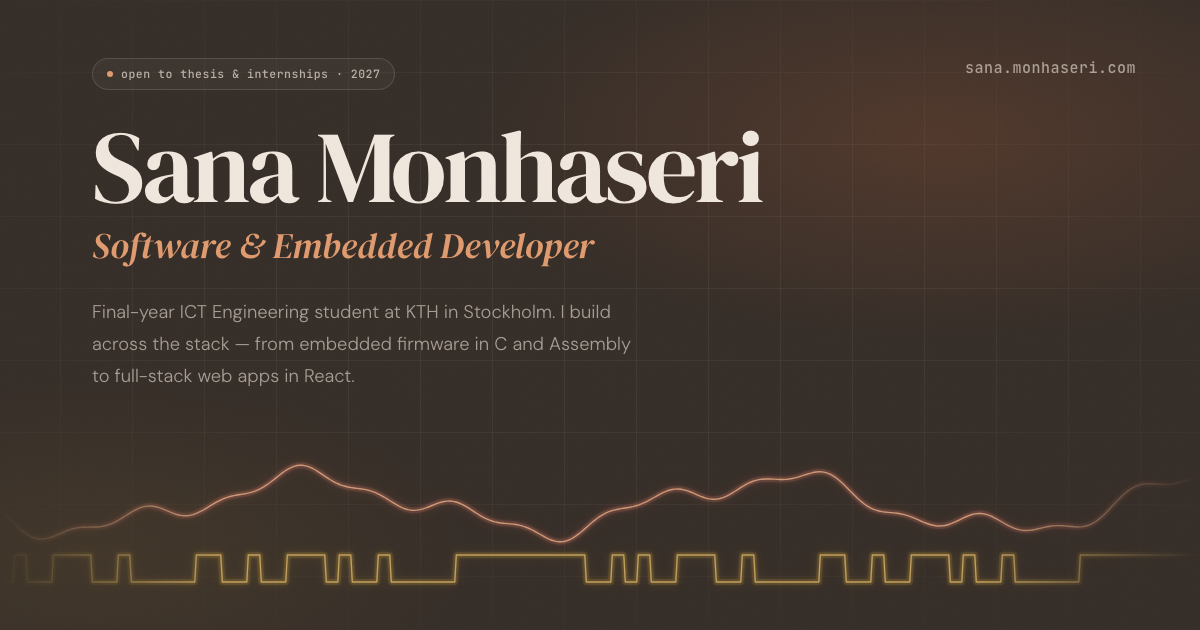
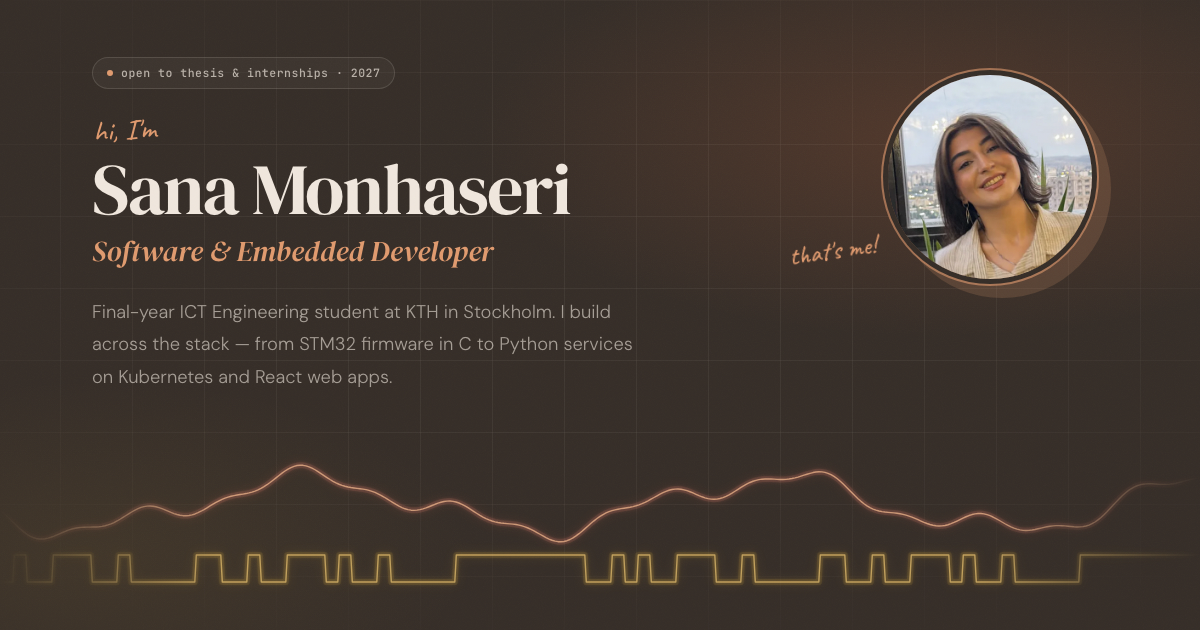
Add CAN Telemetry API and pi-assumptions, update PlantPath, add photo

diff --git a/portfolio/src/Projects/Projects.js b/portfolio/src/Projects/Projects.js
@@ -56,11 +56,23 @@ const GITHUB = 'https://github.com/Sana8200';
 
 const PROJECTS = [
   {
+    title: 'CAN Telemetry API',
+    images: ['/images/can-telemetry-cicd.webp', '/images/can-telemetry-architecture.webp'],
+    alts: [
+      'CI/CD diagram: a push to main is linted and tested, smoke-tested in Docker and on Kubernetes, then published to ghcr.io',
+      'Architecture diagram: a client posts CAN frames over HTTPS to a FastAPI service in a locked-down Kubernetes pod, which decodes them and keeps the latest value of each signal in memory',
+    ],
+    imgClass: 'proj__img--contain',
+    desc: 'A FastAPI service that decodes CAN bus frames into physical signals like rpm, temperature and battery voltage, and serves the latest values over HTTP/2 with TLS from a non-root container. It runs on Kubernetes (kind), and a GitHub Actions pipeline lints, tests and smoke-tests every push before publishing the image to ghcr.io.',
+    tags: ['Python', 'FastAPI', 'Docker', 'Kubernetes', 'GitHub Actions'],
+    links: [{ label: 'Code', url: `${GITHUB}/can-telemetry-api` }],
+  },
+  {
     title: 'HouseBite',
     images: ['/images/HOUSE_BITE.webp'],
     alts: ['HouseBite dashboard with household overview, pantry, receipt scanning, and recipes'],
     imgClass: 'proj__img--screenshot',
-    desc: 'A PWA that turns a household into a shared smart pantry — grocery and expiry tracking, recipe suggestions, OCR receipt scanning, and a shared budget. Built in a team of 7 using Scrum.',
+    desc: 'A PWA that turns a household into a shared smart pantry — grocery and expiry tracking, recipe suggestions, receipt scanning with an OpenAI vision model, and a shared budget. Built in a team of 7 using Scrum.',
     role: 'Household management, Google sign-in, the app-wide notification and error system, and Supabase schema work.',
     tags: ['React', 'TypeScript', 'Supabase', 'PostgreSQL'],
     links: [
@@ -80,16 +92,29 @@ const PROJECTS = [
     links: [{ label: 'Code', url: `${GITHUB}/FingerOscilloscope` }],
   },
   {
-    title: 'LeafKeeper',
-    images: ['/images/leafkeeper-landing.webp', '/images/leafkeeper-app.webp'],
+    title: 'pi-assumptions',
+    images: ['/images/pi-assumptions.webp'],
+    alts: ['Terminal running the pi coding agent: while writing rpm.py, the agent flags three assumptions about byte order, scaling, and signedness, each with a confidence level'],
+    imgClass: 'proj__img--contain',
+    desc: 'An extension for the pi coding agent. When a task leaves a detail open, like byte order or units, the agent picks a sensible default, flags it and keeps working. Typing /assumptions lists the flags, and picking a wrong one sends the agent back to fix the code that depended on it.',
+    tags: ['TypeScript', 'AI agents'],
+    links: [{ label: 'Code', url: `${GITHUB}/pi-assumptions` }],
+  },
+  {
+    title: 'PlantPath',
+    images: ['/images/plantpath-start.webp', '/images/plantpath-collections.webp', '/images/plantpath-search.webp'],
     alts: [
-      'LeafKeeper landing page with sign-in options',
-      'LeafKeeper discover page with plant search and trending plants',
+      'PlantPath start page with log in and create account options',
+      'PlantPath collections page with a watering status badge for each plant',
+      'PlantPath search page with trending plants',
     ],
-    desc: 'A digital gardening companion for plant collections and care tracking. Built in a team of 3.',
-    role: 'Designed the UI/UX and built the React front end, integrated with a REST API backend.',
-    tags: ['React', 'JavaScript', 'REST APIs'],
-    links: [{ label: 'Live demo', url: 'https://group-11-57e70.web.app/', demo: true }],
+    desc: 'A web app for discovering houseplants, saving them into collections and tracking when each one needs water. Built in a team of 3. Search no longer returns results because our plant API subscription has ended, so the screenshots show it working.',
+    role: 'Designed the UI/UX and built the React front end, using MobX, Firebase Auth/Firestore and the House Plants API.',
+    tags: ['React', 'JavaScript', 'MobX', 'Firebase'],
+    links: [
+      { label: 'Code', url: `${GITHUB}/PlantPath` },
+      { label: 'Live demo', url: 'https://plantpath-bac3f.web.app/', demo: true },
+    ],
   },
   {
     title: 'Soundgood Database',
@@ -104,6 +129,11 @@ const PROJECTS = [
 
 // Smaller work, collapsed by default to keep the page short
 const MORE = [
+  {
+    name: 'Snake Game',
+    detail: 'Bare-metal C on the DE10-Lite’s RISC-V soft-core: VGA graphics, the score on the 7-segment display, and controls on the board’s buttons and switches.',
+    url: `${GITHUB}/Snake_game`,
+  },
   {
     name: 'Digital Design & Embedded Electronics',
     detail: 'Combinational and sequential logic circuits, plus hardware interfaces for sensors and displays. Now a lab assistant for the course.',

diff --git a/portfolio/public/index.html b/portfolio/public/index.html
@@ -13,21 +13,21 @@
     <!-- Fonts -->
     <link rel="preconnect" href="https://fonts.googleapis.com" />
     <link rel="preconnect" href="https://fonts.gstatic.com" crossorigin />
-    <link rel="stylesheet" href="https://fonts.googleapis.com/css2?family=DM+Serif+Display:ital@0;1&family=DM+Sans:ital,opsz,wght@0,9..40,300;0,9..40,400;0,9..40,500;0,9..40,600;1,9..40,400&family=JetBrains+Mono:wght@400;500&display=swap" />
+    <link rel="stylesheet" href="https://fonts.googleapis.com/css2?family=Caveat:wght@500;600&family=DM+Serif+Display:ital@0;1&family=DM+Sans:ital,opsz,wght@0,9..40,300;0,9..40,400;0,9..40,500;0,9..40,600;1,9..40,400&family=JetBrains+Mono:wght@400;500&display=swap" />
 
     <!-- Primary Meta Tags -->
     <title>Sana Monhaseri — Software & Embedded Developer</title>
     <meta name="title" content="Sana Monhaseri — Software & Embedded Developer" />
-    <meta name="description" content="Final-year ICT Engineering student at KTH, Stockholm. Embedded firmware (STM32, C, KTH Formula Student) and full-stack web apps. Open to thesis projects and internships in 2027." />
+    <meta name="description" content="Final-year ICT Engineering student at KTH, Stockholm. From STM32 firmware in C (KTH Formula Student) to Python services on Kubernetes and React web apps. Open to thesis projects and internships in 2027." />
     <meta name="author" content="Sana Monhaseri" />
-    <meta name="keywords" content="Sana Monhaseri, software developer, embedded systems, STM32, Formula Student, full-stack, KTH, thesis, internship, ICT engineering, React, portfolio, Stockholm" />
+    <meta name="keywords" content="Sana Monhaseri, software developer, embedded systems, STM32, Formula Student, full-stack, Python, FastAPI, Kubernetes, KTH, thesis, internship, ICT engineering, React, portfolio, Stockholm" />
 
     <!-- Open Graph / Facebook / LinkedIn -->
     <meta property="og:type" content="website" />
     <meta property="og:url" content="https://sana.monhaseri.com/" />
     <meta property="og:title" content="Sana Monhaseri — Software & Embedded Developer" />
-    <meta property="og:description" content="Final-year ICT Engineering student at KTH. Embedded firmware and full-stack web apps. Open to thesis projects and internships in 2027." />
-    <meta property="og:image" content="https://sana.monhaseri.com/og-image.png?v=2" />
+    <meta property="og:description" content="Final-year ICT Engineering student at KTH. From STM32 firmware in C to Python services on Kubernetes and React web apps. Open to thesis projects and internships in 2027." />
+    <meta property="og:image" content="https://sana.monhaseri.com/og-image.png?v=3" />
     <meta property="og:image:width" content="1200" />
     <meta property="og:image:height" content="630" />
     <meta property="og:image:alt" content="Sana Monhaseri — Software &amp; Embedded Developer, with oscilloscope-style waveforms" />
@@ -37,8 +37,8 @@
     <meta name="twitter:card" content="summary_large_image" />
     <meta name="twitter:url" content="https://sana.monhaseri.com/" />
     <meta name="twitter:title" content="Sana Monhaseri — Software & Embedded Developer" />
-    <meta name="twitter:description" content="Final-year ICT Engineering student at KTH. Embedded firmware and full-stack web apps. Open to thesis projects and internships in 2027." />
-    <meta name="twitter:image" content="https://sana.monhaseri.com/og-image.png?v=2" />
+    <meta name="twitter:description" content="Final-year ICT Engineering student at KTH. From STM32 firmware in C to Python services on Kubernetes and React web apps. Open to thesis projects and internships in 2027." />
+    <meta name="twitter:image" content="https://sana.monhaseri.com/og-image.png?v=3" />
 
     <!-- Canonical URL -->
     <link rel="canonical" href="https://sana.monhaseri.com/" />

diff --git a/portfolio/src/Hero/Hero.js b/portfolio/src/Hero/Hero.js
@@ -3,6 +3,9 @@ import SocialLinks from '../SocialLinks/SocialLinks';
 import Scope from './Scope';
 import './Hero.css';
 
+// Set to the path of a photo in public/images (e.g. '/images/sana.webp') to show it beside the name
+const PHOTO = '/images/sana.webp';
+
 const HIGHLIGHTS = [
   { label: 'Studying', value: 'B.Sc. ICT Engineering', meta: 'KTH · final year' },
   { label: 'Team', value: 'KTH Formula Student', meta: 'Powertrain & Electronics' },
@@ -21,21 +24,33 @@ function Hero() {
   return (
     <section id="hero" className="hero" ref={heroRef}>
       <div className="container hero__content">
-        <div className="hero__badge hero-in hero-in--0">
-          <span className="hero__badge-dot" />
-          <span className="hero__badge-text">open to thesis & internships · 2027</span>
-        </div>
+        <div className="hero__top">
+          <div>
+            <div className="hero__badge hero-in hero-in--0">
+              <span className="hero__badge-dot" />
+              <span className="hero__badge-text">open to thesis & internships · 2027</span>
+            </div>
 
-        <h1 className="hero__title hero-in hero-in--1">
-          <span className="hero__name">Sana Monhaseri</span>
-          <span className="hero__role">Software & Embedded Developer</span>
-        </h1>
+            <h1 className="hero__title hero-in hero-in--1">
+              <span className="hero__hi">hi, I'm</span>
+              <span className="hero__name">Sana Monhaseri</span>
+              <span className="hero__role">Software & Embedded Developer</span>
+            </h1>
+          </div>
+
+          {PHOTO && (
+            <figure className="hero__photo hero-in hero-in--1">
+              <img src={PHOTO} alt="Sana Monhaseri" />
+              <figcaption className="hero__photo-note" aria-hidden="true">that's me!</figcaption>
+            </figure>
+          )}
+        </div>
 
         <div className="hero__row hero-in hero-in--2">
           <p className="hero__desc">
             Final-year ICT Engineering student at KTH in Stockholm. I build across
-            the stack — from embedded firmware in C and Assembly to full-stack web
-            apps in React.
+            the stack — from STM32 firmware in C to Python services on Kubernetes
+            and React web apps.
           </p>
           <div className="hero__actions">
             <a href="#projects" className="btn btn--gradient">View my work</a>
@@ -49,7 +64,7 @@ function Hero() {
         <Scope hostRef={heroRef} />
         <span className="scope__tag scope__tag--ch1" aria-hidden="true">CH1</span>
         <span className="scope__tag scope__tag--ch2" aria-hidden="true">CH2</span>
-        <span className="scope__caption">ch2 decodes to “SANA” in 8-bit ASCII</span>
+        <span className="scope__caption">psst, CH2 spells “SANA” in 8-bit ASCII ♡</span>
       </div>
 
       <ul className="container hero__stats hero-in hero-in--4">

diff --git a/portfolio/src/Hero/Hero.css b/portfolio/src/Hero/Hero.css
@@ -93,26 +93,71 @@
   letter-spacing: 0.5px;
 }
 
+/* Title row, with the optional photo on the right */
+.hero__top {
+  justify-self: stretch;
+  display: flex;
+  align-items: center;
+  justify-content: space-between;
+  gap: 1.5rem 3rem;
+}
+
 /* Title */
 .hero__title {
   font-family: var(--font-heading);
   font-weight: 400;
   margin-bottom: 1.75rem;
 }
+/* Handwritten greeting above the name */
+.hero__hi {
+  display: block;
+  font-family: var(--font-hand);
+  font-size: clamp(1.5rem, 2.4vw, 2rem);
+  font-weight: 500;
+  line-height: 1;
+  color: var(--peach);
+  transform: rotate(-3deg);
+  transform-origin: left bottom;
+  margin: 0 0 0.4rem 0.15rem;
+}
 .hero__name {
   display: block;
-  font-size: clamp(3rem, 8.5vw, 6.5rem);
-  line-height: 0.95;
-  letter-spacing: -0.03em;
+  font-size: clamp(2.5rem, 6vw, 4.75rem);
+  line-height: 1;
+  letter-spacing: -0.025em;
   color: var(--bg);
 }
 .hero__role {
   display: block;
-  margin-top: 0.6rem;
+  margin-top: 0.55rem;
   font-style: italic;
-  font-size: clamp(1.35rem, 3vw, 2.25rem);
+  font-size: clamp(1.25rem, 2.4vw, 1.8rem);
   line-height: 1.2;
   color: var(--peach);
+}
+
+/* Photo */
+.hero__photo {
+  position: relative;
+  flex-shrink: 0;
+  margin-right: 1rem;
+}
+.hero__photo img {
+  width: clamp(150px, 17vw, 220px);
+  aspect-ratio: 1;
+  object-fit: cover;
+  border-radius: 50%;
+  box-shadow: 0 0 0 5px var(--charcoal), 0 0 0 7px rgba(224,154,110,0.6), 12px 12px 0 7px rgba(224,154,110,0.18);
+}
+.hero__photo-note {
+  position: absolute;
+  left: -6.2rem;
+  bottom: 0.4rem;
+  font-family: var(--font-hand);
+  font-size: 1.6rem;
+  color: var(--peach);
+  transform: rotate(-8deg);
+  white-space: nowrap;
 }
 
 /* Description + actions row */
@@ -209,11 +254,11 @@
 .scope__caption {
   position: absolute;
   right: max(2rem, calc((100% - 1080px) / 2 + 2rem));
-  top: 0;
-  font-family: var(--font-mono);
-  font-size: 0.62rem;
-  color: rgba(240,231,221,0.5);
-  letter-spacing: 0.3px;
+  top: -0.6rem;
+  font-family: var(--font-hand);
+  font-size: 1.3rem;
+  color: rgba(242,179,138,0.85);
+  transform: rotate(-2deg);
 }
 
 /* Highlights bar */
@@ -279,6 +324,10 @@
 }
 @media (max-width: 600px) {
   .hero__content { padding-top: 2.5rem; }
+  .hero__top { flex-direction: column-reverse; align-items: flex-start; }
+  .hero__photo { margin-right: 0; }
+  .hero__photo img { width: 110px; }
+  .hero__photo-note { left: calc(100% + 0.75rem); bottom: 35%; transform: rotate(-6deg); }
   .hero__actions { width: 100%; }
   .hero__actions .btn { flex: 1; justify-content: center; padding: 14px 20px; }
   .hero__socials { width: 100%; margin-left: 0; }

diff --git a/portfolio/src/constants/skills.js b/portfolio/src/constants/skills.js
@@ -12,11 +12,11 @@ export const SKILL_CATS = [
   {
     label: 'web',
     title: 'Web & Data',
-    items: ['React', 'Vite', 'Mantine UI', 'Supabase', 'PostgreSQL', 'REST APIs'],
+    items: ['React', 'Vite', 'MobX', 'Mantine UI', 'FastAPI', 'REST APIs', 'Supabase', 'Firebase', 'PostgreSQL', 'UI/UX'],
   },
   {
     label: 'tools',
     title: 'Tools & Concepts',
-    items: ['Git', 'Docker', 'Linux', 'Concurrency', 'OOP', 'Database Design', 'UI/UX'],
+    items: ['Git', 'Docker', 'Kubernetes', 'GitHub Actions', 'pytest', 'Linux', 'Concurrency', 'OOP', 'Database Design'],
   },
 ];

diff --git a/portfolio/src/style/global.css b/portfolio/src/style/global.css
@@ -31,6 +31,7 @@
   --font-heading:   'DM Serif Display', Georgia, serif;
   --font-body:      'DM Sans', -apple-system, 'Segoe UI', sans-serif;
   --font-mono:      'JetBrains Mono', monospace;
+  --font-hand:      'Caveat', 'Bradley Hand', cursive; /* small handwritten notes */
 
   /* Spacing & Radius */
   --radius:         12px;
@@ -288,6 +289,7 @@ body::after {
 
 /* Reduced motion */
 @media (prefers-reduced-motion: reduce) {
+  html { scroll-behavior: auto; }
   *, *::before, *::after {
     animation-duration: 0.01ms !important;
     animation-iteration-count: 1 !important;

diff --git a/portfolio/src/Experience/Experience.js b/portfolio/src/Experience/Experience.js
@@ -13,8 +13,8 @@ const FEATURED = {
 };
 
 const ROLES = [
-  { role: 'Lab Assistant — Programming & Digital Design', org: 'KTH', period: 'Current' },
-  { role: 'International Student Ambassador', org: 'KTH School of EECS', period: 'Current' },
+  { role: 'Lab Assistant — Programming & Digital Design', org: 'KTH', period: 'Aug 2024 – present' },
+  { role: 'International Student Ambassador', org: 'KTH School of EECS', period: 'Aug 2024 – present' },
 ];
 
 function Experience() {

diff --git a/portfolio/src/About/About.js b/portfolio/src/About/About.js
@@ -23,9 +23,6 @@ function About() {
 
         <Reveal delay={1}>
           <div className="about__body">
-            <p className="about__lead">
-              I'm drawn to work that sits between <em>hardware</em> and <em>software</em>.
-            </p>
             <p className="about__text">
               What I enjoy most is understanding how things work at every level — and
               building software that actually solves problems.

diff --git a/portfolio/src/About/About.css b/portfolio/src/About/About.css
@@ -43,17 +43,6 @@
   margin-bottom: 0;
 }
 
-.about__lead {
-  font-family: var(--font-heading);
-  font-size: clamp(1.4rem, 2.4vw, 1.85rem);
-  line-height: 1.35;
-  color: var(--text);
-  letter-spacing: -0.2px;
-  margin-bottom: 1.25rem;
-}
-.about__lead em {
-  color: var(--rust);
-}
 .about__text {
   font-size: 0.98rem;
   line-height: 1.8;

diff --git a/portfolio/src/Projects/Projects.css b/portfolio/src/Projects/Projects.css
@@ -68,6 +68,12 @@
 .proj:hover .proj__img {
   transform: scale(1.04);
 }
+/* Diagrams and terminal captures: show the whole image, never crop */
+.proj__img.proj__img--contain {
+  object-fit: contain;
+  padding: 12px 16px;
+  background: var(--bg-card-alt);
+}
 
 /* Image slider */
 .proj__media--slider {
